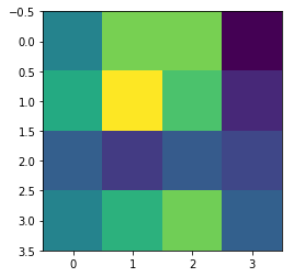
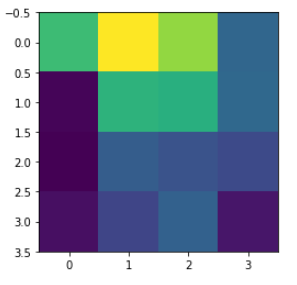
FIX kaggle cam

diff --git a/_posts/2019-12-06-kaggle1.md b/_posts/2019-12-06-kaggle1.md
@@ -332,6 +332,8 @@ plt.imshow(img)
 
 
 ```python
+img = cv2.cvtColor(img, cv2.COLOR_RGB2BGR)
+
 [conv_outputs, predictions] = get_output([[img]])
 ```
 
@@ -347,7 +349,7 @@ weights의 shape을 맞추어 주기 위해 transpose를 진행한다.
 ```python
 cam = np.zeros(dtype = np.float32, shape = conv_outputs.shape[1:3])
 
-for i, w in enumerate(class_weights[:, 3]):
+for i, w in enumerate(class_weights[:, 3]): # 3: class num
     cam += w * conv_outputs[i, :, :]
 
 cam /= np.max(cam)
@@ -402,7 +404,7 @@ plt.imshow(cam_img)
 위에 부분에서 특정 부분을 아래와 같이 바꾸면 된다.
 
 ```python
-y_c = model.output.op.inputs[0][0, 1]
+y_c = model.output.op.inputs[0][0, 3] # 3: class num
 ```
 
 ```python
@@ -425,7 +427,7 @@ grad_cam = np.zeros(dtype = np.float32, shape = conv_outputs.shape[1:3])
 ```python
 weights = np.mean(grad_val, axis=(0, 1))
 
-for i, w in enumerate(weights[1,:]):
+for i, w in enumerate(weights[3,:]): # 3: class num
     grad_cam += w * conv_outputs[i, :, :]
 ```
 
